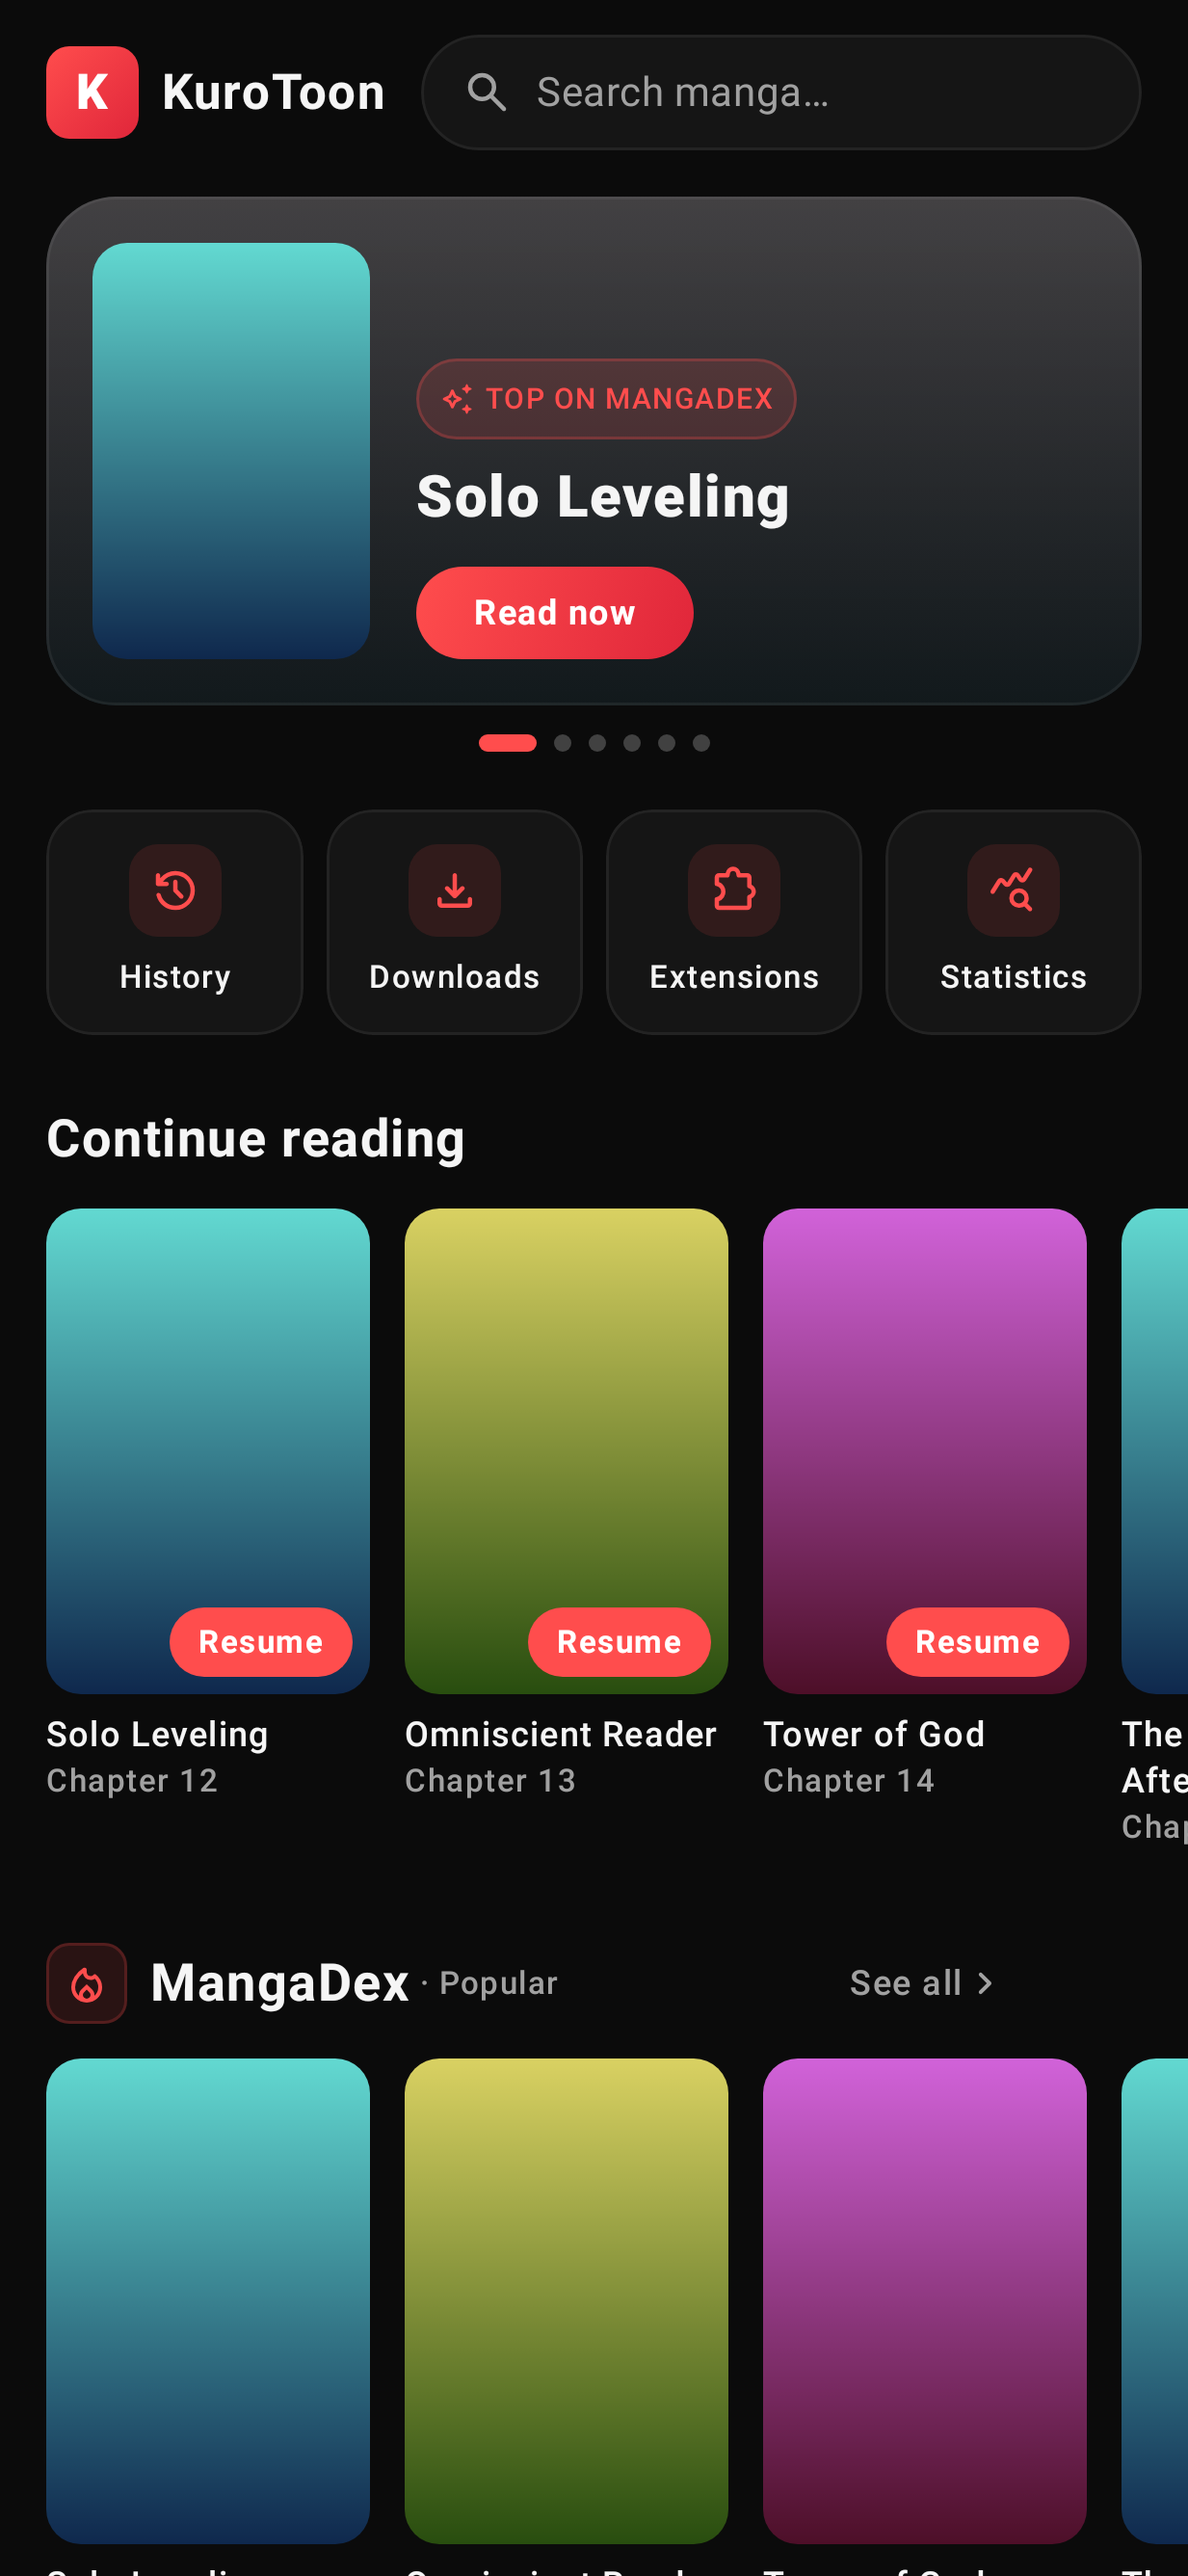
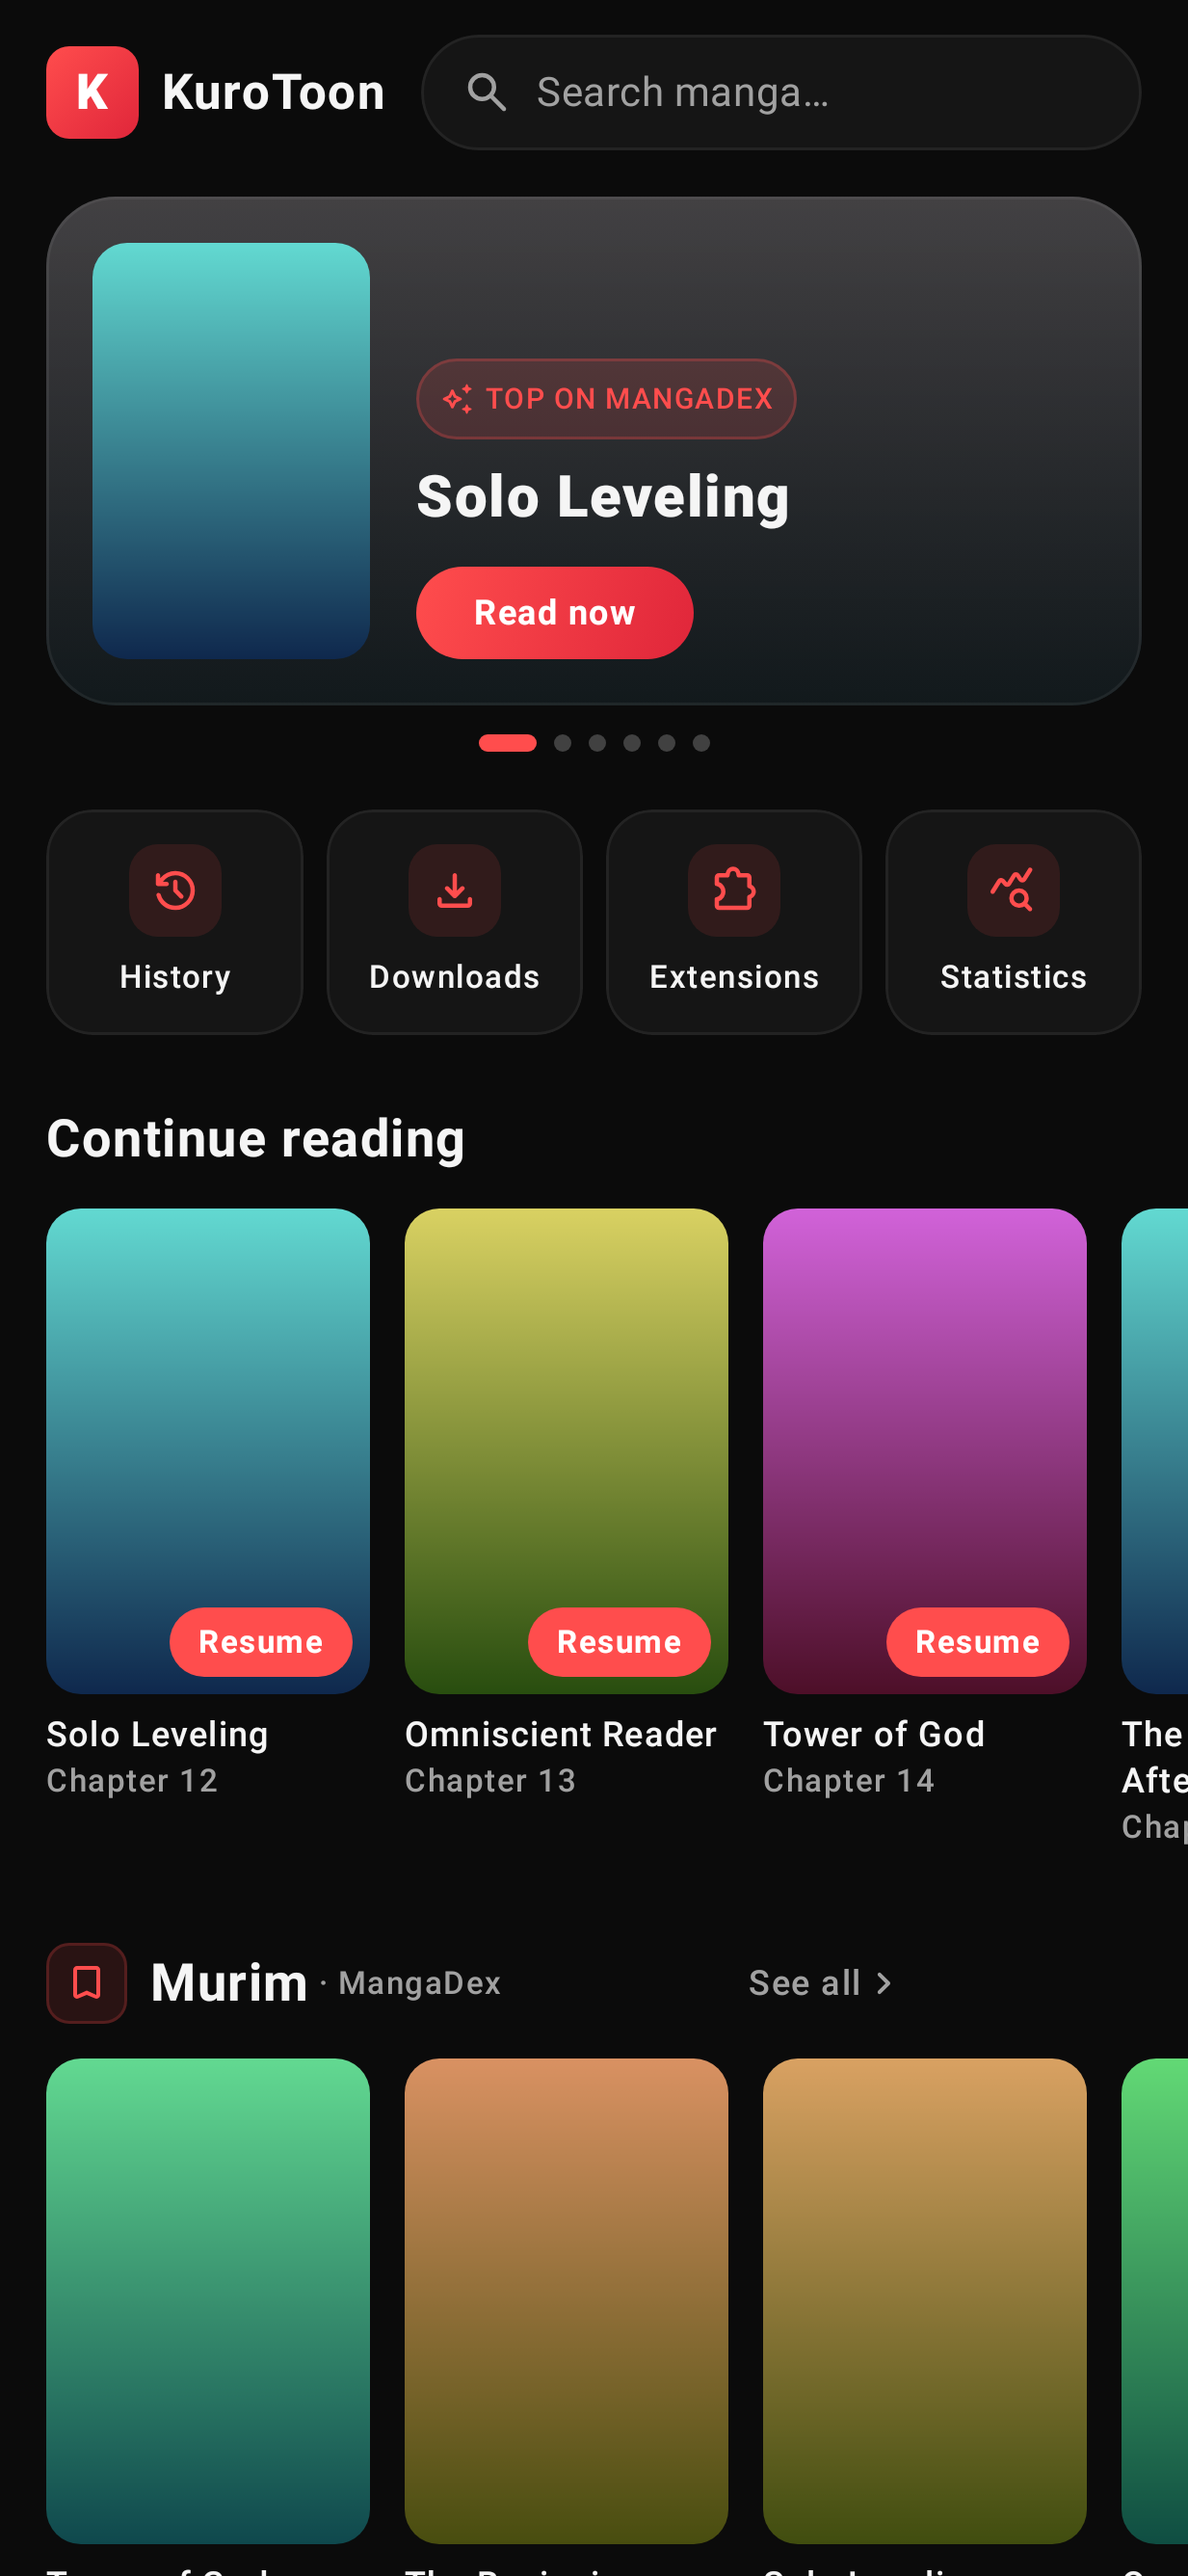
Show pinned saved searches as Home rows

Changed region(s): [[0.0308, 0.7452, 1.0, 1.0]]

diff --git a/app/src/main/java/kurotoon/ui/home/KuroHomeViewModel.kt b/app/src/main/java/kurotoon/ui/home/KuroHomeViewModel.kt
@@ -9,6 +9,7 @@ import dev.zacsweers.metro.Inject
 import dev.zacsweers.metro.binding
 import dev.zacsweers.metrox.viewmodel.ViewModelKey
 import eu.kanade.domain.source.interactor.GetEnabledSources
+import eu.kanade.tachiyomi.source.CatalogueSource
 import kotlinx.coroutines.Dispatchers
 import kotlinx.coroutines.channels.Channel
 import kotlinx.coroutines.coroutineScope
@@ -26,6 +27,9 @@ import kotlinx.coroutines.flow.stateIn
 import kotlinx.coroutines.flow.update
 import kotlinx.coroutines.launch
 import kotlinx.coroutines.withContext
+import kurotoon.catalogue.SavedSearch
+import kurotoon.catalogue.SavedSearches
+import kurotoon.prefs.KuroPreferences
 import logcat.LogPriority
 import mihon.domain.manga.model.toDomainManga
 import tachiyomi.core.common.util.system.logcat
@@ -47,9 +51,15 @@ class KuroHomeViewModel(
     private val getNextChapters: GetNextChapters,
     private val sourceManager: SourceManager,
     private val networkToLocalManga: NetworkToLocalManga,
+    kuroPreferences: KuroPreferences,
 ) : ViewModel() {
 
     private val rows = MutableStateFlow<List<SourceRow>>(emptyList())
+    private val savedRows = MutableStateFlow<List<SourceRow>>(emptyList())
+    private val homeSearches = kuroPreferences.savedSearches.changes()
+        .catch { logcat(LogPriority.ERROR, it) }
+        .map { all -> all.filter { it.onHome }.take(HOME_SAVED_SEARCHES) }
+        .distinctUntilChanged()
     private val sourceIds = getEnabledSources.subscribe()
         .catch { logcat(LogPriority.ERROR, it) }
         .map { sources -> sources.filterNot { it.id == LocalSource.ID }.map { it.id }.take(HOME_SOURCES) }
@@ -64,12 +74,14 @@ class KuroHomeViewModel(
         getHistory.subscribe("").catch { logcat(LogPriority.ERROR, it) },
         sourceIds,
         rows,
-    ) { history, ids, rows ->
+        savedRows,
+    ) { history, ids, rows, savedRows ->
         State(
             isLoading = false,
             continueReading = history.distinctBy { it.mangaId }.take(CONTINUE_READING_LIMIT),
             hasSources = ids.isNotEmpty(),
             rows = rows,
+            savedRows = savedRows,
         )
     }
         .stateIn(viewModelScope, SharingStarted.WhileSubscribed(5_000), State())
@@ -78,6 +90,19 @@ class KuroHomeViewModel(
         viewModelScope.launch {
             sourceIds.collectLatest { ids -> loadRows(ids) }
         }
+        viewModelScope.launch {
+            homeSearches.collectLatest { searches -> loadSavedRows(searches) }
+        }
+    }
+
+    /** Saved searches pinned to Home, each as its own row (like a feed). */
+    private suspend fun loadSavedRows(searches: List<SavedSearch>) = coroutineScope {
+        savedRows.value = searches.mapNotNull { search ->
+            sourceManager.get(search.sourceId)?.let { source ->
+                SourceRow(source.id, search.name, items = null, savedSearch = search, sourceName = source.name)
+            }
+        }
+        savedRows.value.forEach { row -> launch { loadRow(row) } }
     }
 
     /** Fetches each source's popular list, like the web app's home rows. */
@@ -86,19 +111,27 @@ class KuroHomeViewModel(
             sourceManager.get(id)?.let { SourceRow(it.id, it.name, items = null) }
         }
         rows.value.forEach { row ->
-            launch { loadRow(row.sourceId) }
+            launch { loadRow(row) }
         }
     }
 
-    fun retry(sourceId: Long) {
-        viewModelScope.launch { loadRow(sourceId) }
+    fun retry(row: SourceRow) {
+        viewModelScope.launch { loadRow(row) }
     }
 
-    private suspend fun loadRow(sourceId: Long) {
-        val source = sourceManager.get(sourceId) ?: return
-        updateRow(sourceId) { it.copy(items = null, failed = false) }
+    private suspend fun loadRow(row: SourceRow) {
+        val source = sourceManager.get(row.sourceId) ?: return
+        updateRow(row.key) { it.copy(items = null, failed = false) }
+        val search = row.savedSearch
         val result = runCatching {
-            val page = withContext(Dispatchers.IO) { source.getPopularManga(1) }
+            val page = withContext(Dispatchers.IO) {
+                if (search != null && source is CatalogueSource) {
+                    val filters = SavedSearches.restore(source.getFilterList(), search.filters)
+                    source.getSearchManga(1, search.query.orEmpty(), filters)
+                } else {
+                    source.getPopularManga(1)
+                }
+            }
             page.mangas
                 .map { it.toDomainManga(source.id) }
                 .distinctBy { it.url }
@@ -106,11 +139,12 @@ class KuroHomeViewModel(
                 .take(ROW_LIMIT)
         }
         result.exceptionOrNull()?.let { logcat(LogPriority.WARN, it) { "Home row failed for ${source.name}" } }
-        updateRow(sourceId) { it.copy(items = result.getOrNull(), failed = result.isFailure) }
+        updateRow(row.key) { it.copy(items = result.getOrNull(), failed = result.isFailure) }
     }
 
-    private fun updateRow(sourceId: Long, block: (SourceRow) -> SourceRow) {
-        rows.update { list -> list.map { if (it.sourceId == sourceId) block(it) else it } }
+    private fun updateRow(key: String, block: (SourceRow) -> SourceRow) {
+        val target = if (key.startsWith(SAVED_PREFIX)) savedRows else rows
+        target.update { list -> list.map { if (it.key == key) block(it) else it } }
     }
 
     fun resume(item: HistoryWithRelations) {
@@ -127,6 +161,8 @@ class KuroHomeViewModel(
         val continueReading: List<HistoryWithRelations> = emptyList(),
         val hasSources: Boolean = true,
         val rows: List<SourceRow> = emptyList(),
+        /** Rows for saved searches the user pinned to Home. */
+        val savedRows: List<SourceRow> = emptyList(),
     ) {
         /** Top titles for the hero carousel, taking turns between sources so each gets a slot. */
         val heroes: List<Pair<SourceRow, Manga>>
@@ -151,13 +187,21 @@ class KuroHomeViewModel(
         /** Null while loading. */
         val items: List<Manga>?,
         val failed: Boolean = false,
-    )
+        /** Set when the row shows a saved search instead of the source's popular list. */
+        val savedSearch: SavedSearch? = null,
+        val sourceName: String = name,
+    ) {
+        val key: String get() = savedSearch?.let { "$SAVED_PREFIX${it.id}" } ?: "source-$sourceId"
+    }
 
     private companion object {
         const val CONTINUE_READING_LIMIT = 15
         const val HOME_SOURCES = 4
         const val ROW_LIMIT = 18
+        const val HOME_SAVED_SEARCHES = 6
     }
 }
+
+private const val SAVED_PREFIX = "saved-"
 
 private const val HERO_COUNT = 6

diff --git a/app/src/main/java/kurotoon/ui/home/KuroHomeSections.kt b/app/src/main/java/kurotoon/ui/home/KuroHomeSections.kt
@@ -54,6 +54,7 @@ import kurotoon.ui.KuroColors
 import kurotoon.ui.kuroCard
 import mihon.icons.materialsymbols.MaterialSymbols
 import mihon.icons.materialsymbols.rounded.AutoAwesome
+import mihon.icons.materialsymbols.rounded.Bookmark
 import mihon.icons.materialsymbols.rounded.KeyboardArrowRight
 import mihon.icons.materialsymbols.rounded.LocalFireDepartment
 import tachiyomi.domain.manga.model.Manga
@@ -275,7 +276,11 @@ internal fun HomeSourceRow(
                 contentAlignment = Alignment.Center,
             ) {
                 Icon(
-                    MaterialSymbols.Rounded.LocalFireDepartment,
+                    if (row.savedSearch != null) {
+                        MaterialSymbols.Rounded.Bookmark
+                    } else {
+                        MaterialSymbols.Rounded.LocalFireDepartment
+                    },
                     contentDescription = null,
                     tint = KuroColors.Crimson,
                     modifier = Modifier.size(16.dp),
@@ -292,7 +297,7 @@ internal fun HomeSourceRow(
                     .weight(1f, fill = false),
             )
             Text(
-                text = " · " + stringResource(MR.strings.popular),
+                text = " · " + if (row.savedSearch != null) row.sourceName else stringResource(MR.strings.popular),
                 style = MaterialTheme.typography.labelSmall,
                 color = MaterialTheme.colorScheme.onSurfaceVariant,
                 modifier = Modifier.weight(1f),

diff --git a/app/src/test/java/kurotoon/screenshots/KuroScreenshots.kt b/app/src/test/java/kurotoon/screenshots/KuroScreenshots.kt
@@ -201,14 +201,27 @@ class KuroScreenshots {
             )
         }
         KuroHomeContent(
-            state = KuroHomeViewModel.State(isLoading = false, continueReading = history, rows = rows),
+            state = KuroHomeViewModel.State(
+                isLoading = false,
+                continueReading = history,
+                rows = rows,
+                savedRows = listOf(
+                    KuroHomeViewModel.SourceRow(
+                        sourceId = 0L,
+                        name = "Murim",
+                        items = (0 until 8).map { manga(100L + it, titles[(it + 2) % titles.size]) },
+                        savedSearch = kurotoon.catalogue.SavedSearch(1L, 0L, "Murim", "murim", emptyList()),
+                        sourceName = "MangaDex",
+                    ),
+                ),
+            ),
             snackbarHostState = SnackbarHostState(),
             onSearchClick = {},
             onAddSourcesClick = {},
             onMangaClick = {},
             onBrowseMangaClick = {},
-            onSourceClick = {},
-            onRetrySource = {},
+            onRowClick = {},
+            onRetryRow = {},
             onResumeClick = {},
             onExtensionsClick = {},
             onHistoryClick = {},

diff --git a/app/src/main/java/eu/kanade/tachiyomi/ui/browse/source/browse/BrowseSourceScreen.kt b/app/src/main/java/eu/kanade/tachiyomi/ui/browse/source/browse/BrowseSourceScreen.kt
@@ -79,6 +79,8 @@ data class BrowseSourceScreen(
     private val listingQuery: String?,
     /** A tag to filter by as soon as the source is ready, e.g. one tapped on a series page. */
     private val initialGenre: String? = null,
+    /** Opens this saved search once the source is ready, e.g. from a Home row. */
+    private val savedSearchId: Long? = null,
 ) : Screen(), AssistContentScreen {
 
     private var assistUrl: String? = null
@@ -92,6 +94,15 @@ data class BrowseSourceScreen(
                 create(sourceId = sourceId, listingQuery = listingQuery)
             }
         val state by viewModel.state.collectAsState()
+
+        var savedSearchOpened by rememberSaveable { mutableStateOf(savedSearchId == null) }
+        LaunchedEffect(state.source, state.savedSearches) {
+            if (savedSearchOpened || state.source == null) return@LaunchedEffect
+            state.savedSearches.firstOrNull { it.id == savedSearchId }?.let {
+                viewModel.openSavedSearch(it)
+                savedSearchOpened = true
+            }
+        }
 
         val navigator = LocalNavigator.currentOrThrow
         val navigateUp: () -> Unit = {

diff --git a/app/src/main/java/kurotoon/ui/home/KuroHomeTab.kt b/app/src/main/java/kurotoon/ui/home/KuroHomeTab.kt
@@ -62,8 +62,16 @@ data object KuroHomeTab : Tab {
             onAddSourcesClick = { scope.launch { HomeScreen.openTab(HomeScreen.Tab.Browse(toExtensions = true)) } },
             onMangaClick = { navigator.push(MangaScreen(it)) },
             onBrowseMangaClick = { navigator.push(MangaScreen(it.id, fromSource = true)) },
-            onSourceClick = { navigator.push(BrowseSourceScreen(it, BrowseSourceViewModel.Listing.Popular.query)) },
-            onRetrySource = viewModel::retry,
+            onRowClick = { row ->
+                navigator.push(
+                    BrowseSourceScreen(
+                        sourceId = row.sourceId,
+                        listingQuery = BrowseSourceViewModel.Listing.Popular.query,
+                        savedSearchId = row.savedSearch?.id,
+                    ),
+                )
+            },
+            onRetryRow = viewModel::retry,
             onResumeClick = viewModel::resume,
             onExtensionsClick = { scope.launch { HomeScreen.openTab(HomeScreen.Tab.Browse(toExtensions = true)) } },
             onHistoryClick = { scope.launch { HomeScreen.openTab(HomeScreen.Tab.History) } },

diff --git a/app/src/main/java/kurotoon/ui/home/KuroHomeContent.kt b/app/src/main/java/kurotoon/ui/home/KuroHomeContent.kt
@@ -59,8 +59,8 @@ fun KuroHomeContent(
     onAddSourcesClick: () -> Unit,
     onMangaClick: (Long) -> Unit,
     onBrowseMangaClick: (Manga) -> Unit,
-    onSourceClick: (Long) -> Unit,
-    onRetrySource: (Long) -> Unit,
+    onRowClick: (KuroHomeViewModel.SourceRow) -> Unit,
+    onRetryRow: (KuroHomeViewModel.SourceRow) -> Unit,
     onResumeClick: (HistoryWithRelations) -> Unit,
     onExtensionsClick: () -> Unit,
     onHistoryClick: () -> Unit,
@@ -102,12 +102,12 @@ fun KuroHomeContent(
                     onResumeClick = onResumeClick,
                 )
             }
-            items(state.rows, key = { "source-${it.sourceId}" }) { row ->
+            items(state.savedRows + state.rows, key = { it.key }) { row ->
                 HomeSourceRow(
                     row = row,
-                    onSeeAll = { onSourceClick(row.sourceId) },
+                    onSeeAll = { onRowClick(row) },
                     onMangaClick = onBrowseMangaClick,
-                    onRetry = { onRetrySource(row.sourceId) },
+                    onRetry = { onRetryRow(row) },
                 )
             }
         }

diff --git a/README.md b/README.md
@@ -32,7 +32,7 @@ A private, local-first manga, manhwa and webtoon reader for Android, written in 
 - **Browse the way each catalogue is built.** Every source shows its own facets (genres, themes, status, type,
   demographic) as tabs of one-tap tags. Stack them, long-press to exclude, clear them one by one.
 - **Save the searches you keep coming back to.** Save any query plus tags as a chip on that source and pin it
-  to Home as its own row.
+  to Home, where it becomes its own feed row.
 - **Everything else you'd expect.** Universal search across sources, offline downloads,
   tracker sync, source migration, backups and reading stats.
 

diff --git a/CHANGELOG.md b/CHANGELOG.md
@@ -28,6 +28,7 @@ All notable changes to KuroToon are documented here. Versions follow
   chapter, and tap sparks across the app.
 - Saved searches per source: keep a query and its tags as a one-tap chip, rename or delete it, and choose
   whether it shows on Home.
+- Home rows for saved searches: each pinned search loads as its own row, and See all opens that search.
 
 ### Changed
 - Bottom navigation: Home, Browse, Library, Updates and Me.
